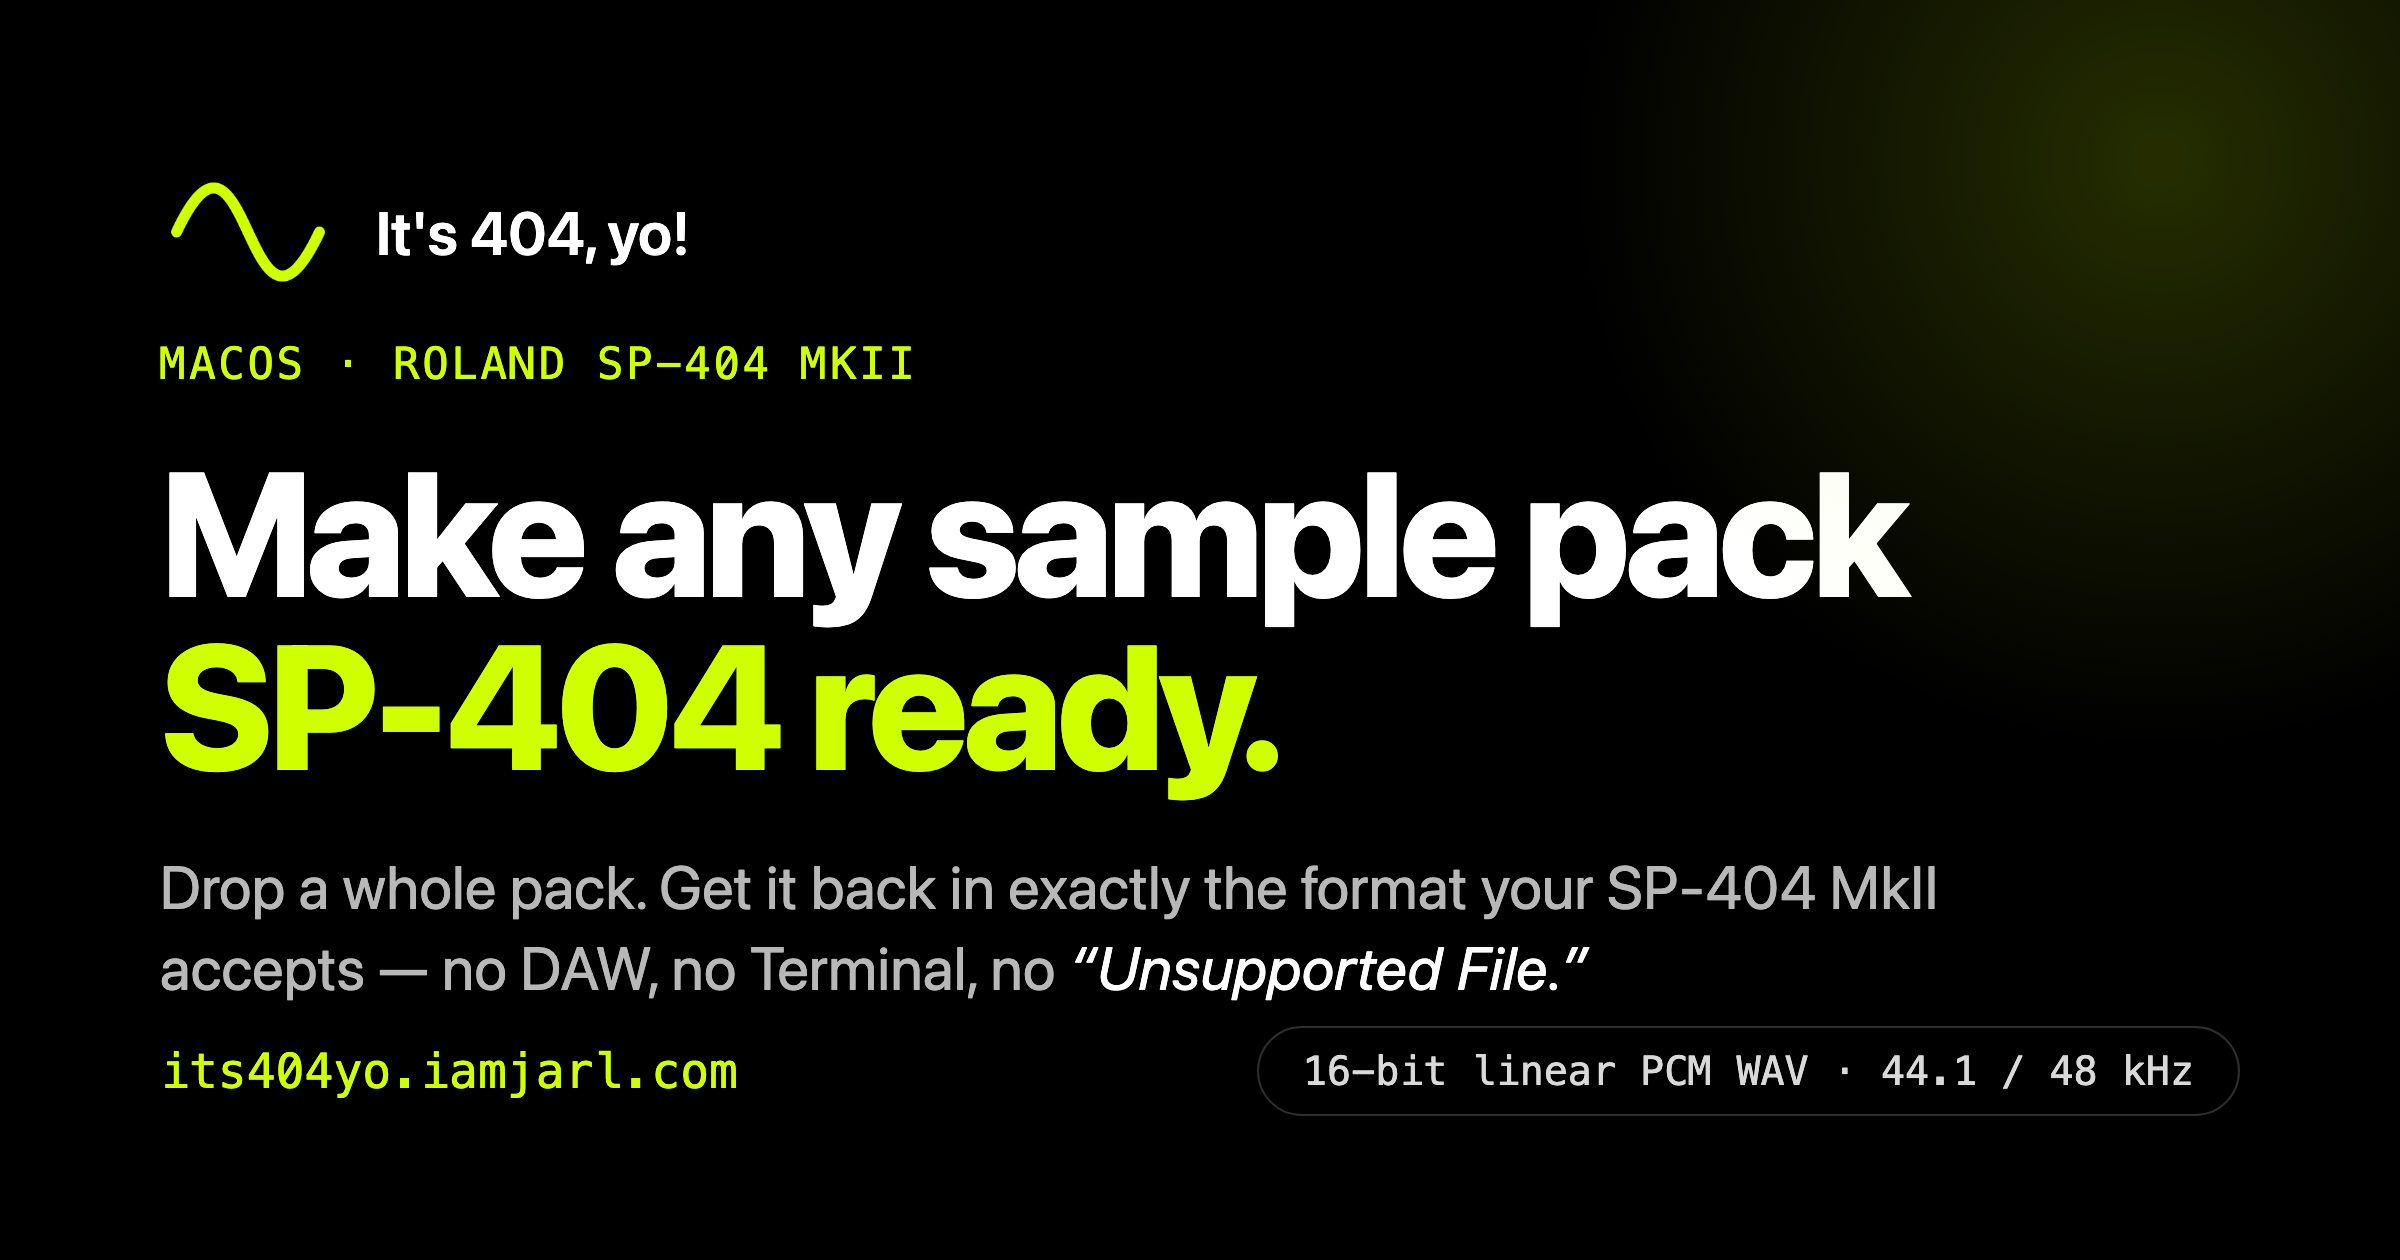
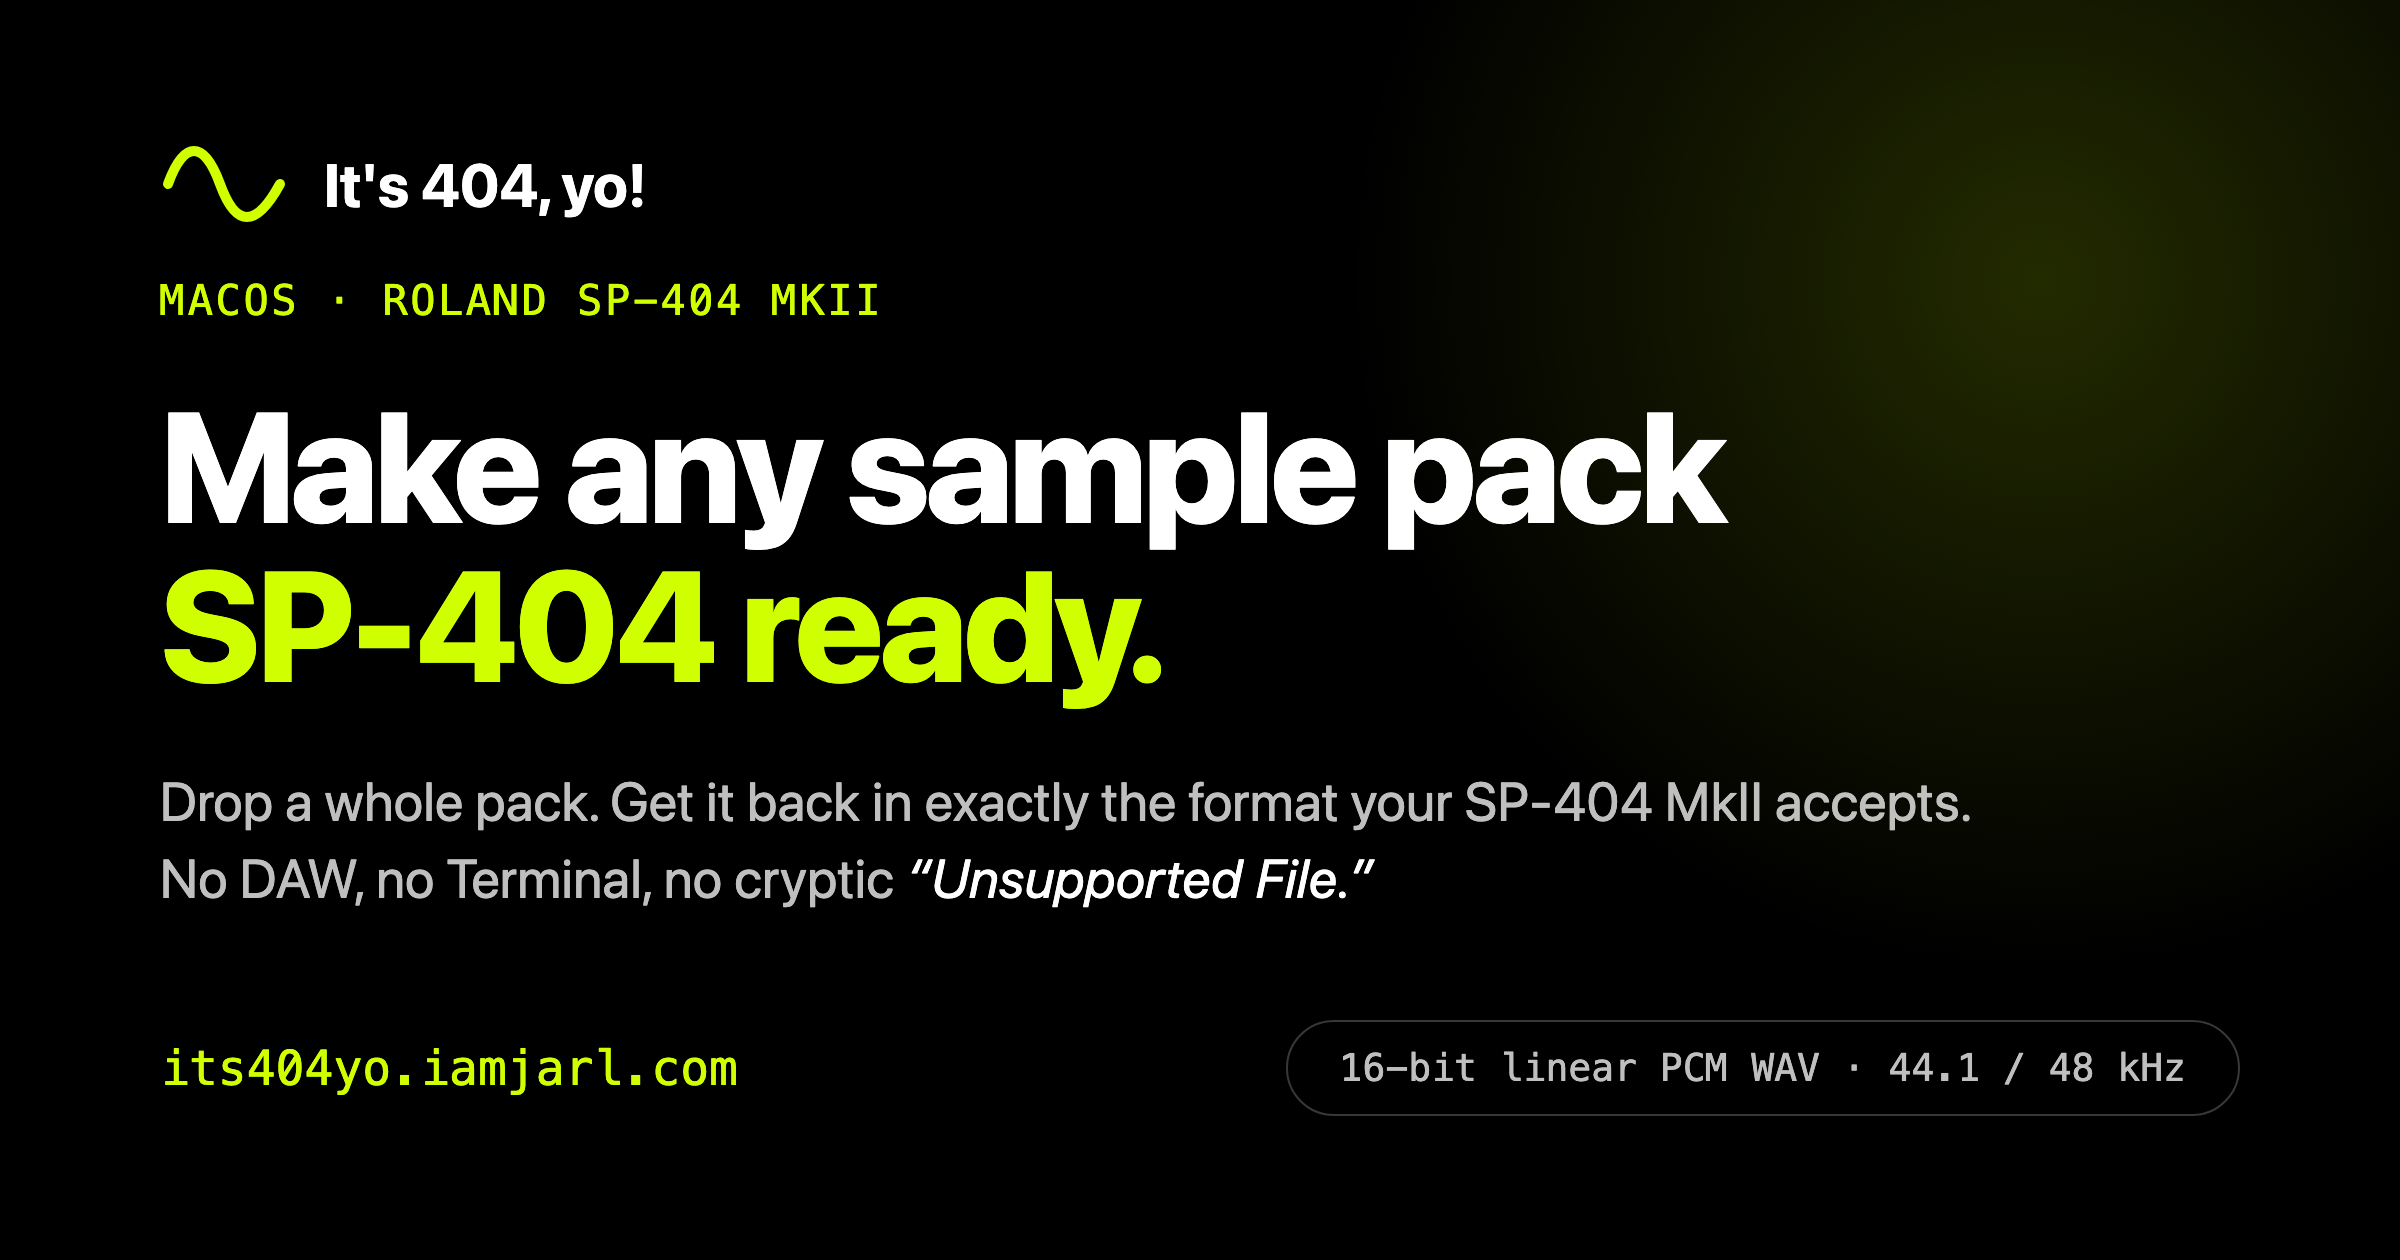
Add a GitHub social preview, rendered from a source that also fixes og:image (#43)
The repo was serving GitHub's auto-generated card. DESIGN.md says one image does
both jobs, the site's og:image and the GitHub social preview, so the fix is one
card rendered at two sizes rather than a second, separately drawn image.

While checking the existing og.png against the site it was supposed to mirror,
it turned out to be stale: the hero copy was corrected to drop an em-dash, but
the image still had the old wording baked in ("accepts -- no DAW"). It had no
source file, so there was nothing to re-render when the copy changed. That is
the actual fix here: docs/social-card.html is now the source, and `make social`
writes both docs/social-preview.png (1280x640, GitHub's preferred size) and
site/assets/og.png (2400x1260, 2x of 1200x630). Each size is laid out natively
rather than stretching a 2:1 card into 1.91:1.

The source lives in docs/, not site/, because Pages deploys site/ and it would
otherwise become a stray public page. Rendered at 2x via headless Chrome and
downsampled so the type stays crisp.

The lede now breaks after "accepts." so "No DAW, no Terminal, no cryptic
Unsupported File" reads as one line instead of orphaning "No" at a line end.

GitHub has no API for the social preview, so docs/social-preview.png has to be
uploaded by hand in Settings.

Changed region(s): [[0.0625, 0.1238, 0.8125, 0.65], [0.0625, 0.681, 0.9375, 0.8667], [0.0625, 0.8357, 0.3125, 0.8667]]

diff --git a/docs/social-card.html b/docs/social-card.html
@@ -1,0 +1,111 @@
+<!DOCTYPE html>
+<html lang="en">
+<head>
+<meta charset="UTF-8" />
+<title>It's 404, yo! social card</title>
+<!--
+  Source for the shared social card. One image does two jobs: the site's og:image and the
+  repo's GitHub social preview.
+
+  Rendered at 2x and downsampled, so edit here and re-run rather than retouching the PNG.
+  That is the point of this file existing: the previous og.png had no source, so when the
+  site's hero copy was corrected the image silently kept the old wording.
+
+  Render:  make social   (writes docs/social-preview.png and site/assets/og.png)
+  Sizes:   1280x640 (GitHub's preferred) and 1200x630 (og:image), both from this one card.
+-->
+<style>
+  :root {
+    --primary: #D0FF00;
+    --bg: #000000;
+    --text: #FFFFFF;
+    --text-2: rgba(255,255,255,0.75);
+    --font: -apple-system, BlinkMacSystemFont, "Segoe UI", system-ui, sans-serif;
+    --mono: ui-monospace, SFMono-Regular, Menlo, monospace;
+  }
+  * { margin: 0; padding: 0; box-sizing: border-box; }
+  html, body { background: var(--bg); }
+
+  /* The card is authored at 1280x640 and scaled up for capture, so one source serves
+     both output sizes and the type stays crisp after downsampling. */
+  .card {
+    width: var(--w, 1280px); height: var(--h, 640px);
+    position: relative; overflow: hidden;
+    background: var(--bg);
+    font-family: var(--font);
+    color: var(--text);
+    padding: 72px 80px;
+    display: flex; flex-direction: column;
+  }
+  /* Accent glow, top right. Kept well inside the frame so any platform crop is safe. */
+  .card::after {
+    content: ""; position: absolute; top: -220px; right: -180px;
+    width: 720px; height: 720px; border-radius: 50%;
+    background: radial-gradient(circle, rgba(208,255,0,0.17) 0%, rgba(208,255,0,0) 68%);
+  }
+  .inner { position: relative; z-index: 1; display: flex; flex-direction: column; height: 100%; }
+
+  .brand { display: flex; align-items: center; gap: 18px; }
+  .brand svg { width: 64px; height: 40px; flex: none; }
+  .brand span { font-size: 30px; font-weight: 700; letter-spacing: -0.01em; }
+
+  .eyebrow {
+    font-family: var(--mono); font-size: 21px; color: var(--primary);
+    letter-spacing: 0.06em; margin-top: 26px;
+  }
+
+  h1 {
+    font-size: 78px; line-height: 1.02; letter-spacing: -0.025em;
+    font-weight: 800; margin-top: 30px;
+  }
+  h1 .accent { color: var(--primary); }
+
+  .lede {
+    font-size: 27px; line-height: 1.42; color: var(--text-2);
+    margin-top: 30px; max-width: 1100px;
+  }
+  .lede em { font-style: italic; color: var(--text); }
+
+  .foot {
+    margin-top: auto; display: flex; align-items: center;
+    justify-content: space-between; gap: 24px;
+  }
+  .url { font-family: var(--mono); font-size: 24px; color: var(--primary); }
+  .spec {
+    font-family: var(--mono); font-size: 19px; color: var(--text-2);
+    border: 1px solid rgba(255,255,255,0.22); border-radius: 999px;
+    padding: 12px 26px; white-space: nowrap;
+  }
+</style>
+</head>
+<body>
+  <script>
+    // #og renders the og:image size; no hash renders GitHub's preferred 1280x640.
+    if (location.hash === '#og') document.documentElement.style.cssText = '--w:1200px;--h:630px';
+  </script>
+  <div class="card">
+    <div class="inner">
+      <div class="brand">
+        <!-- the site's sine-wave mark, drawn inline so the card has no external asset -->
+        <svg viewBox="0 0 64 40" fill="none" xmlns="http://www.w3.org/2000/svg" aria-hidden="true">
+          <path d="M4 20 C 12 -2, 22 -2, 30 20 S 48 42, 60 20"
+                stroke="#D0FF00" stroke-width="5" stroke-linecap="round"/>
+        </svg>
+        <span>It's 404, yo!</span>
+      </div>
+
+      <p class="eyebrow">MACOS &middot; ROLAND SP-404 MKII</p>
+
+      <h1>Make any sample pack<br /><span class="accent">SP-404 ready.</span></h1>
+
+      <p class="lede">Drop a whole pack. Get it back in exactly the format your SP-404 MkII
+        accepts.<br />No DAW, no Terminal, no cryptic <em>&ldquo;Unsupported File.&rdquo;</em></p>
+
+      <div class="foot">
+        <span class="url">its404yo.iamjarl.com</span>
+        <span class="spec">16-bit linear PCM WAV &middot; 44.1 / 48 kHz</span>
+      </div>
+    </div>
+  </div>
+</body>
+</html>
